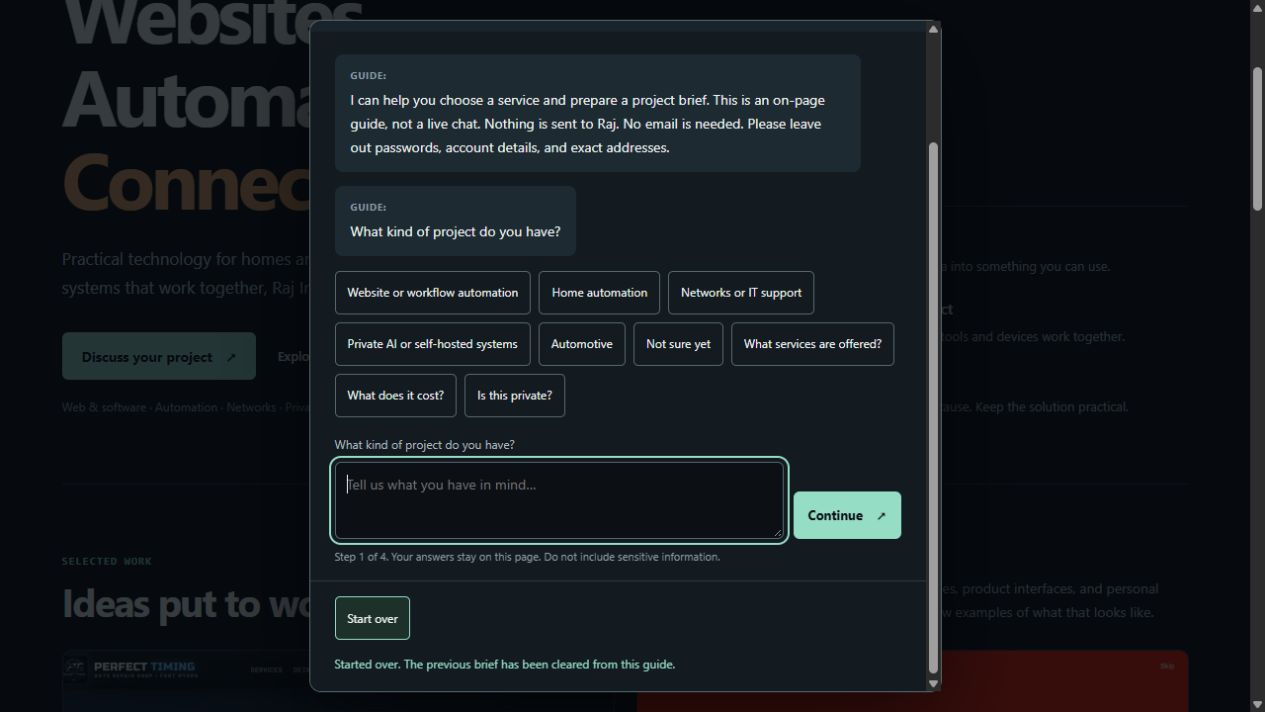
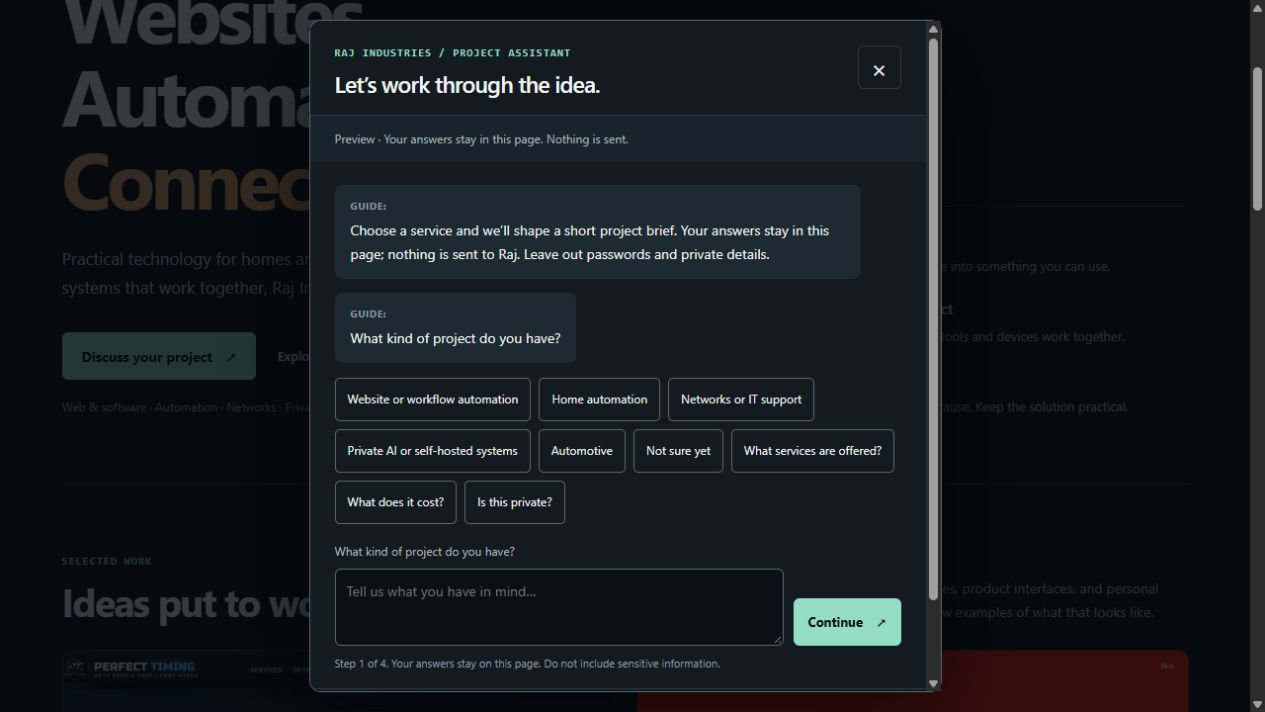
Keep assistant heading visible and open without scroll jumps

diff --git a/preview.css b/preview.css
@@ -97,7 +97,7 @@ section{scroll-margin-top:24px}
 .footer-right a{display:inline-flex;align-items:center;min-height:44px}
 .assistant-dialog{position:fixed;inset:0;margin:auto;width:min(640px,calc(100% - 32px));max-height:min(860px,calc(100dvh - 40px));padding:0;background:var(--surface);color:var(--ink);border:1px solid #536a70;border-radius:12px;box-shadow:0 24px 90px #0009;overflow:auto}
 .assistant-dialog::backdrop{background:#03090ec9}
-.assistant-head{display:flex;align-items:flex-start;justify-content:space-between;gap:20px;padding:25px 25px 17px;border-bottom:1px solid var(--line)}
+.assistant-head{position:sticky;top:0;z-index:2;background:var(--surface);display:flex;align-items:flex-start;justify-content:space-between;gap:20px;padding:25px 25px 17px;border-bottom:1px solid var(--line)}
 .assistant-head h2{font-size:23px;letter-spacing:-.035em;font-weight:600;margin:8px 0 0;line-height:1.25}
 .assistant-close{flex:0 0 44px;width:44px;height:44px;background:transparent;border:1px solid var(--line);border-radius:6px;color:var(--ink);font-size:25px;line-height:1}
 .assistant-privacy{font-size:12px;color:var(--muted);padding:14px 25px;margin:0;background:#17232b}
